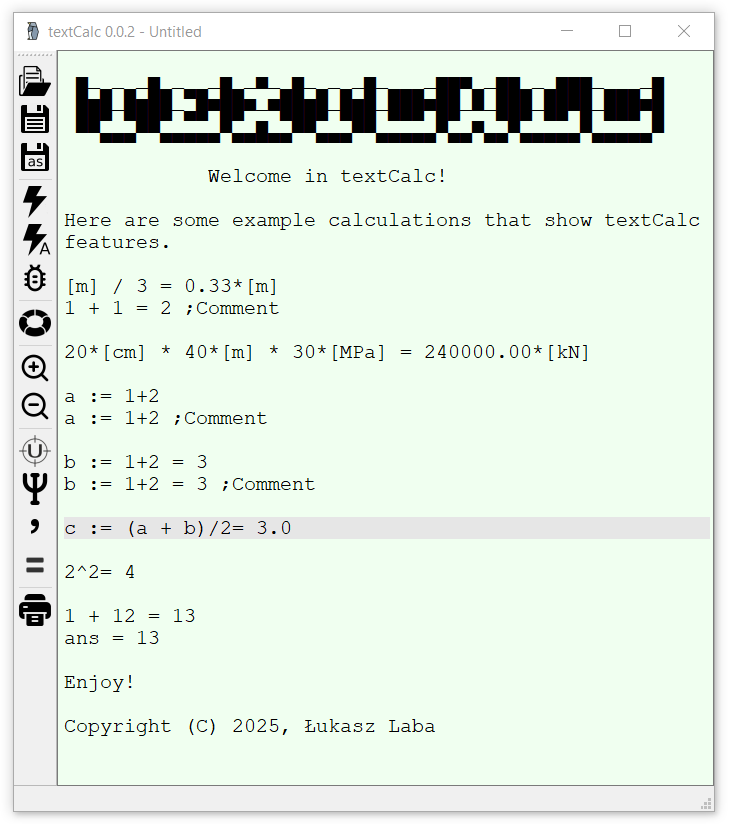
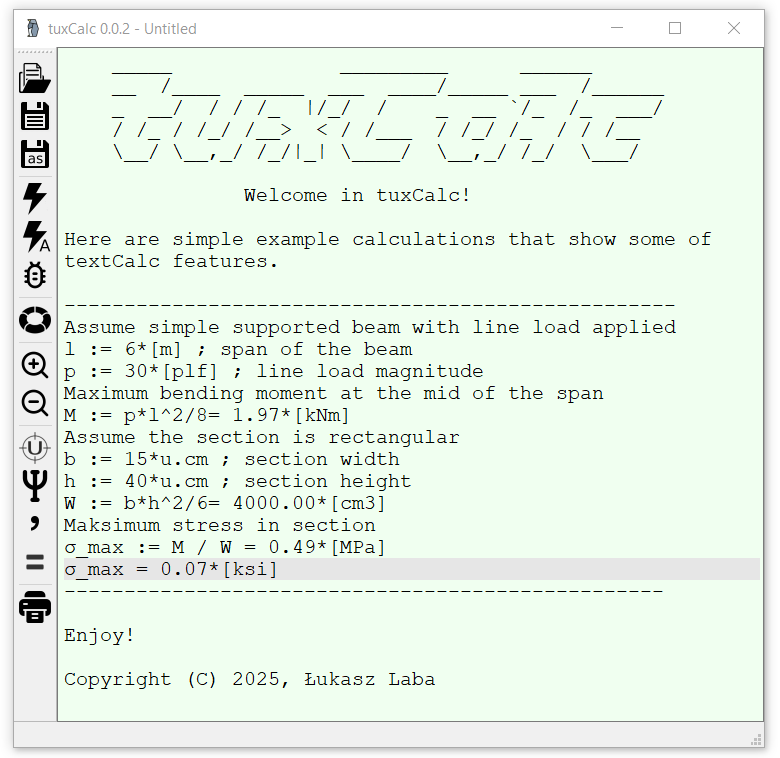
.

diff --git a/scr/pycore/start_ctext.py b/scr/pycore/start_ctext.py
@@ -1,29 +1,27 @@
-ctext='''
- █─▄─▄─█▄─▄▄─█▄─▀─▄█─▄─▄─█─▄▄▄─██▀▄─██▄─▄███─▄▄▄─█
- ███─████─▄█▀██▀─▀████─███─███▀██─▀─███─██▀█─███▀█
- ▀▀▄▄▄▀▀▄▄▄▄▄▀▄▄█▄▄▀▀▄▄▄▀▀▄▄▄▄▄▀▄▄▀▄▄▀▄▄▄▄▄▀▄▄▄▄▄▀
+ctext='''    _____              _________      ______
+    __  /____  _____  ___  ____/_____ ___  /______
+    _  __/  / / /_  |/_/  /    _  __ `/_  /_  ___/
+    / /_ / /_/ /__>  < / /___  / /_/ /_  / / /__
+    \__/ \__,_/ /_/|_| \____/  \__,_/ /_/  \___/
 
-            Welcome in textCalc!
+               Welcome in tuxCalc!
 
-Here are some example calculations that show textCalc features.
+Here are simple example calculations that show some of textCalc features.
 
-u.m / 3 =
-1 + 1 = 2 ;Comment
-
-20*[cm] * 40*[m] * 30*u.MPa =
-
-a := 1+2
-a := 1+2 ;Comment
-
-b := 1+2 = 3
-b := 1+2 = 3 ;Comment
-
-c := (a + b)/2= 3.0
-
-2^2= 4
-
-1 + 12 = 13
-ans = 13
+---------------------------------------------------
+Assume simple supported beam with line load applied
+l := 6*[m] ; span of the beam
+p := 30*[plf] ; line load magnitude
+Maximum bending moment at the mid of the span
+M := p*l^2/8= 1.97*[kNm]
+Assume the section is rectangular
+b := 15*u.cm ; section width
+h := 40*u.cm ; section height
+W := b*h^2/6= 4000.00*[cm3]
+Maksimum stress in section
+σ_max := M / W = 0.49*[MPa]
+σ_max = 0.07*[ksi]
+--------------------------------------------------
 
 Enjoy!
 

diff --git a/scr/tuxCalc.py b/scr/tuxCalc.py
@@ -2,8 +2,8 @@
 #-----------------------------------------------------------------
 # Copyright (C) 2025, Lukasz Laba
 #
-# This file is part of calcText
-# calcText is distributed under the terms of GNU General Public License
+# This file is part of tuxCalc
+# tuxCalc is distributed under the terms of GNU General Public License
 # The full license can be found in 'license.txt'
 #-----------------------------------------------------------------
 import sys

diff --git a/scr/gui/gui.py b/scr/gui/gui.py
@@ -96,7 +96,7 @@ class gui(QMainWindow):
         self.status_bar = self.statusBar()
 
         #--------------------------
-        self.setMinimumSize(700, 700)
+        self.setMinimumSize(750, 700)
         self.setWindowIcon(QIcon('gui/icons/app.ico'))
 
     def editor_style_edit(self):

diff --git a/README.rst b/README.rst
@@ -1,7 +1,7 @@
-textCalc - simple plain text calculator
+tuxCalc - simple plain text calculator
 ---------------------------------------
 
-`Download for Windows <https://github.com/lukaszlaba/textCalc/releases>`_
+`Download for Windows <https://github.com/lukaszlaba/tuxCalc/releases>`_
 
 .. image:: docs/interface.png
 
@@ -12,7 +12,7 @@ tuxCalc 0.0.3 wip (beta stage)
   - name changed
   - beta version
 
-textCalc 0.0.2 (beta stage)
+tuxCalc 0.0.2 (beta stage)
   - new fratures added
   - beta version
 
@@ -33,7 +33,7 @@ AI free, human brain made software. 😆
 
 Requirements
 ------------
-textCalc is based on Python 3 and few non-standard Python library:
+tuxCalc is based on Python 3 and few non-standard Python library:
 
   - PyQt5 (https://www.riverbankcomputing.com/software/pyqt) - user interface
   - Unum (https://pypi.python.org/pypi/Unum) - it is what make unit calculation possible (future feature)
@@ -41,30 +41,30 @@ textCalc is based on Python 3 and few non-standard Python library:
 How to run it
 -------------
 
-After Python and needed library installed, just run textCalc.py file.
+After Python and needed library installed, just run tuxCalc.py file.
 
 There is also windows binaries available. Just download it and run exe file.
 Please find link to windows binaries download below.
 
-https://github.com/lukaszlaba/textCalc/releases
+https://github.com/lukaszlaba/tuxCalc/releases
 
 License
 -------
 
 Copyright (C) 2025 Łukasz Laba <lukaszlaba@gmail.pl>
 
-textCalc is free software; you can redistribute it and/or modify
+tuxCalc is free software; you can redistribute it and/or modify
 it under the terms of the GNU General Public License as published by
 the Free Software Foundation; either version 2 of the License, or
 (at your option) any later version.
 
-textCalc is distributed in the hope that it will be useful,
+tuxCalc is distributed in the hope that it will be useful,
 but WITHOUT ANY WARRANTY; without even the implied warranty of
 MERCHANTABILITY or FITNESS FOR A PARTICULAR PURPOSE.  See the
 GNU General Public License for more details.
 
 You should have received a copy of the GNU General Public License
-along with textCalc; if not, write to the Free Software
+along with tuxCalc; if not, write to the Free Software
 Foundation, Inc., 51 Franklin St, Fifth Floor, Boston, MA  02110-1301  USA
 
 Contributions
@@ -77,8 +77,8 @@ More information
 
 Project website: https://github.com/lukaszlaba/kipsiCalc
 
-Code repository: https://github.com/lukaszlaba/textCalc
+Code repository: https://github.com/lukaszlaba/tuxCalc
 
-Windows binaries download: https://github.com/lukaszlaba/textCalc/releases
+Windows binaries download: https://github.com/lukaszlaba/tuxCalc/releases
 
 Contact: Łukasz Laba <lukaszlaba@gmail.pl>
